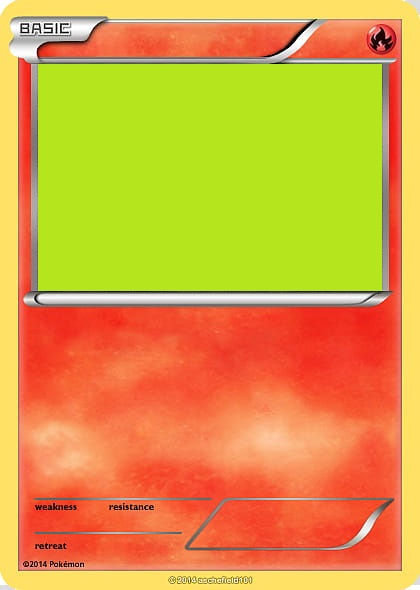
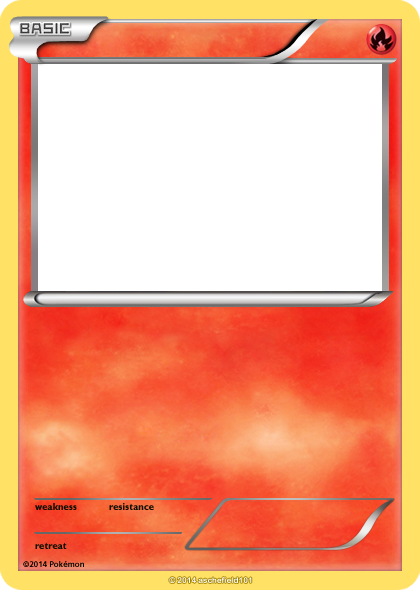
Added Type changing

diff --git a/assets/js/app.js b/assets/js/app.js
@@ -46,22 +46,57 @@ function changeCard() {
 
     if(typeSelect.value === "Fire") {
         card.style.backgroundImage = "url('assets/img/fire-card-template.jpg')";
+        card.style.color = "black";
     }
 
     else if(typeSelect.value === "Water") {
         card.style.backgroundImage = "url('assets/img/water-card-template.png')";
+        card.style.color = "black";
     }
 
     else if(typeSelect.value === "Grass") {
-        card.style.backgroundImage = "url('assets/img/earth-card-template.jpg')";
+        card.style.backgroundImage = "url('assets/img/earth-card-template.png')";
+        card.style.color = "black";
     }
 
     else if(typeSelect.value === "Psy") {
-        card.style.backgroundImage = "url('assets/img/psy-card-template.jpg')";
+        card.style.backgroundImage = "url('assets/img/psy-card-template.png')";
+        card.style.color = "black";
     }
 
     else if(typeSelect.value === "Electrical") {
-        card.style.backgroundImage = "url('assets/img/fire-card-template.jpg')";
+        card.style.backgroundImage = "url('assets/img/electrical-card-template.png')";
+        card.style.color = "black";
+    }
+
+    else if(typeSelect.value === "Rock") {
+        card.style.backgroundImage = "url('assets/img/rock-card-template.png')";
+        card.style.color = "black";
+    }
+
+    else if(typeSelect.value === "Fairy") {
+        card.style.backgroundImage = "url('assets/img/fairy-card-template.png')";
+        card.style.color = "black";
+    }
+
+    else if(typeSelect.value === "Dark") {
+        card.style.backgroundImage = "url('assets/img/dark-card-template.png')";
+        card.style.color = "white";
+    }
+
+    else if(typeSelect.value === "Steel") {
+        card.style.backgroundImage = "url('assets/img/steel-card-template.jpg')";
+        card.style.color = "black";
+    }
+
+    else if(typeSelect.value === "Dragon") {
+        card.style.backgroundImage = "url('assets/img/dragon-card-template.png')";
+        card.style.color = "white";
+    }
+
+    else if(typeSelect.value === "Normal") {
+        card.style.backgroundImage = "url('assets/img/normal-card-template.png')";
+        card.style.color = "black";
     }
 
 }

diff --git a/index.html b/index.html
@@ -91,6 +91,12 @@
                 <option>Grass</option>
                 <option>Psy</option>
                 <option>Electrical</option>
+                <option>Rock</option>
+                <option>Fairy</option>
+                <option>Dark</option>
+                <option>Steel</option>
+                <option>Dragon</option>
+                <option>Normal</option>
             </select>
 
             <input type="submit" id="submit" value="Create Card">

diff --git a/assets/css/style.css b/assets/css/style.css
@@ -81,11 +81,11 @@ select {
 
 #card img {
     position: relative;
-    left: 38px;
-    bottom: 1px;
+    left: 37px;
+    bottom: 3px;
 
-    height: 227px;
-    width: 344px;
+    height: 230px;
+    width: 347px;
 }
 
 .card-header {
